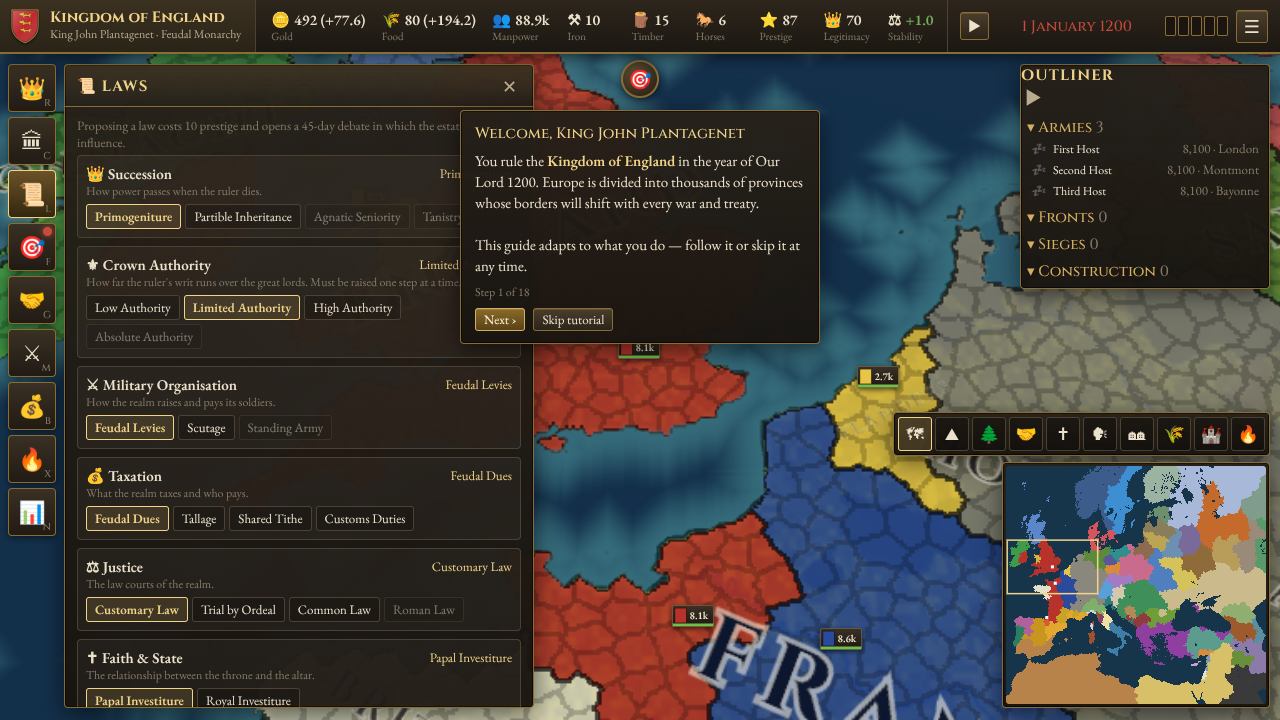
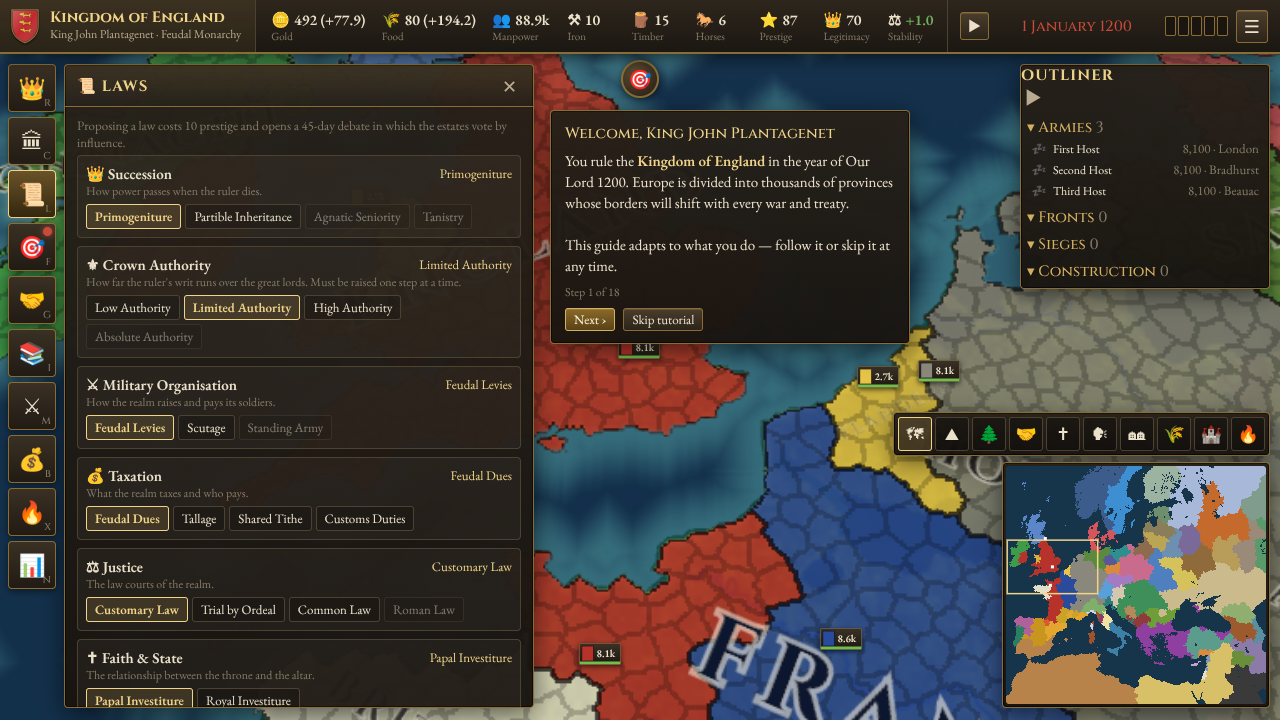
ui: tutorial card stays clear of event dialogs and open panels (#69)
Claude-Session: https://claude.ai/code/session_019CTu55ApA85fi1aN9DWGru

diff --git a/conquest/js/ui/tutorial.js b/conquest/js/ui/tutorial.js
@@ -65,6 +65,11 @@ export class Tutorial {
     this.place(st);
   }
   place(st) {
+    // never sit on top of an event dialog; stay clear of an open side panel
+    const modal = document.querySelector('.modal-back');
+    const pan = document.querySelector('#panel:not(.hidden)');
+    this.card.style.visibility = modal ? 'hidden' : '';
+    if (modal) this.ring?.remove();
     const tgt = st.target && document.querySelector(st.target);
     if (tgt && tgt.offsetParent !== null) {
       const r = tgt.getBoundingClientRect();
@@ -78,7 +83,10 @@ export class Tutorial {
       Object.assign(this.card.style, { left: x + 'px', top: Math.max(64, y) + 'px' });
     } else {
       this.ring?.remove();
-      Object.assign(this.card.style, { left: '50%', top: '110px', transform: 'translateX(-50%)' });
+      const pr = pan && pan.getBoundingClientRect();
+      if (pr && pr.right + 376 < innerWidth - 270) Object.assign(this.card.style, { left: pr.right + 16 + 'px', top: '110px', transform: '' });
+      else if (pr) this.card.style.visibility = 'hidden';
+      else Object.assign(this.card.style, { left: '50%', top: '110px', transform: 'translateX(-50%)' });
     }
   }
   check() {
